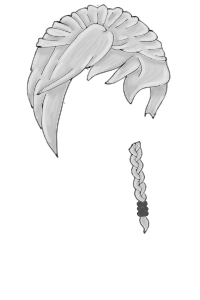
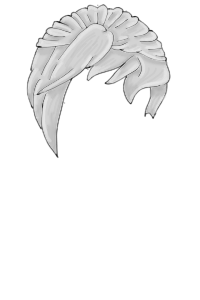
Add HairFront20 braid and band assets

Changed region(s): [[0.63, 0.45, 0.75, 0.78]]

diff --git a/BondageClub/Assets/Female3DCG/Female3DCG.js b/BondageClub/Assets/Female3DCG/Female3DCG.js
@@ -23860,6 +23860,22 @@ var AssetFemale3DCG = [
 						CopyLayerColor: "Main",
 						ShowForAttribute: ["NoEars"],
 					},
+					{
+						Name: "Braid",
+						//CopyLayerColor: "Main",
+						HideForAttribute: ["SmallEars", "NoEars"],
+					},
+					{
+						Name: "SmallEars_Braid",
+						ShowForAttribute: ["SmallEars"],
+						CopyLayerColor: "Braid",
+					},
+					{
+						Name: "NoEars_Braid",
+						ShowForAttribute: ["NoEars"],
+						CopyLayerColor: "Braid",
+					},
+					{ Name: "Band" },
 				],
 			},
 			{
@@ -24543,7 +24559,23 @@ var AssetFemale3DCG = [
 						Priority: 52,
 					},
 					{
+						Name: "Main_Tips_Middle",
+						Priority: 52,
+					},
+					{
+						Name: "Main_Tips_Sides",
+						Priority: 52,
+					},
+					{
 						Name: "Back",
+						Priority: 51,
+					},
+					{
+						Name: "Back_Tips_Middle",
+						Priority: 51,
+					},
+					{
+						Name: "Back_Tips_Sides",
 						Priority: 51,
 					},
 				],
@@ -24741,7 +24773,10 @@ var AssetFemale3DCG = [
 					Suspension: "Suspension",
 				},
 			},
-			{ Name: "HairBack5b" },
+			{
+				Name: "HairBack5b",
+				Layer: [{ Name: "Main" }, { Name: "Tips" }, { Name: "Bands" }],
+			},
 			{ Name: "HairBack6" },
 			{ Name: "HairBack6b" },
 			{
